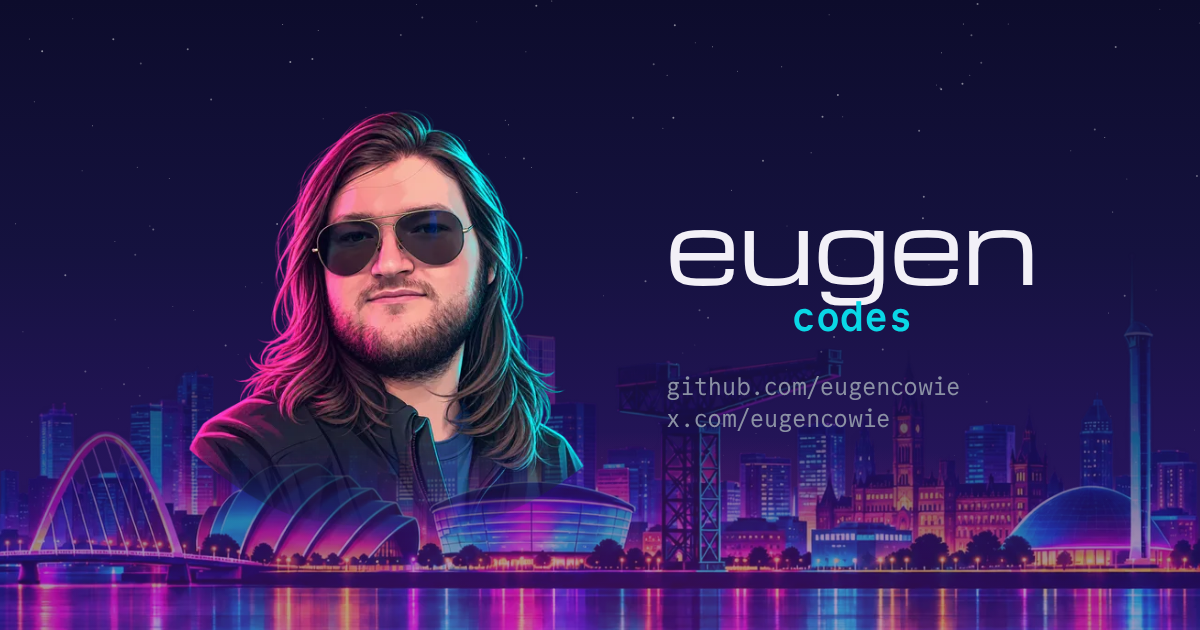
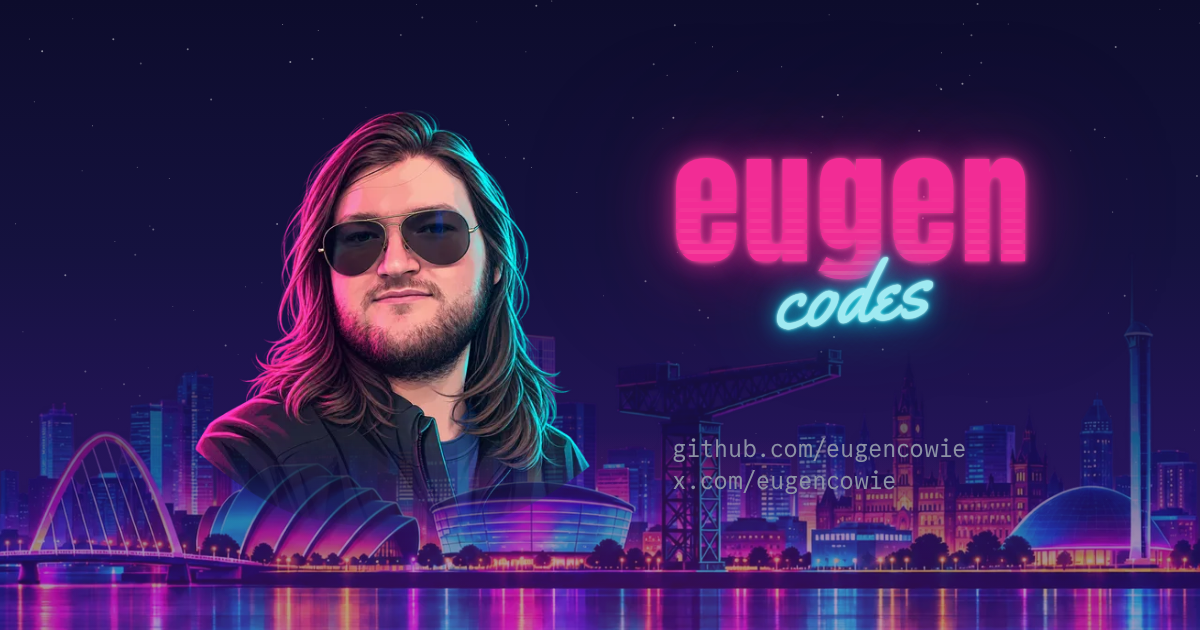
Style the wordmark as a neon sign
- Replace the display font with Anton and add Yellowtail
- Render the magenta block and cyan script neon treatment
- Update hero sizing, metadata, context, and Open Graph artwork

Changed region(s): [[0.1542, 0.181, 0.4933, 0.8143], [0.5242, 0.2111, 0.8942, 0.5429], [0.555, 0.6032, 0.8017, 0.7841]]

diff --git a/astro.config.ts b/astro.config.ts
@@ -19,12 +19,21 @@ export default defineConfig({
     },
     {
       provider: fontProviders.fontsource(),
-      name: "Michroma",
-      cssVariable: "--font-michroma",
+      name: "Anton",
+      cssVariable: "--font-anton",
       weights: [400],
       styles: ["normal"],
       subsets: ["latin"],
       fallbacks: ["sans-serif"],
+    },
+    {
+      provider: fontProviders.fontsource(),
+      name: "Yellowtail",
+      cssVariable: "--font-yellowtail",
+      weights: [400],
+      styles: ["normal"],
+      subsets: ["latin"],
+      fallbacks: ["cursive"],
     },
   ],
 });

diff --git a/src/styles/global.css b/src/styles/global.css
@@ -12,7 +12,8 @@
 
 @theme inline {
   --font-mono: var(--font-commit-mono);
-  --font-display: var(--font-michroma);
+  --font-display: var(--font-anton);
+  --font-script: var(--font-yellowtail);
   --color-background: var(--background);
   --color-foreground: var(--foreground);
   --color-muted: var(--muted);

diff --git a/docs/context.md b/docs/context.md
@@ -13,7 +13,7 @@ A circular crop of the Avatar's face, used wherever the site needs a small squar
 _Avoid_: disc, favicon (that is one use of the Icon, not the concept)
 
 **Wordmark**:
-The `eugen` / `codes` lockup, with `codes` centred beneath the `g`. The site's name as a visual identity.
+The `eugen` / `codes` lockup as a neon sign: `eugen` in heavy magenta block letters with horizontal cutouts creeping in from the bottom, and `codes` in a cyan neon script tilted beneath it. The site's name as a visual identity.
 _Avoid_: logo, title, brand
 
 **Social Links**:
